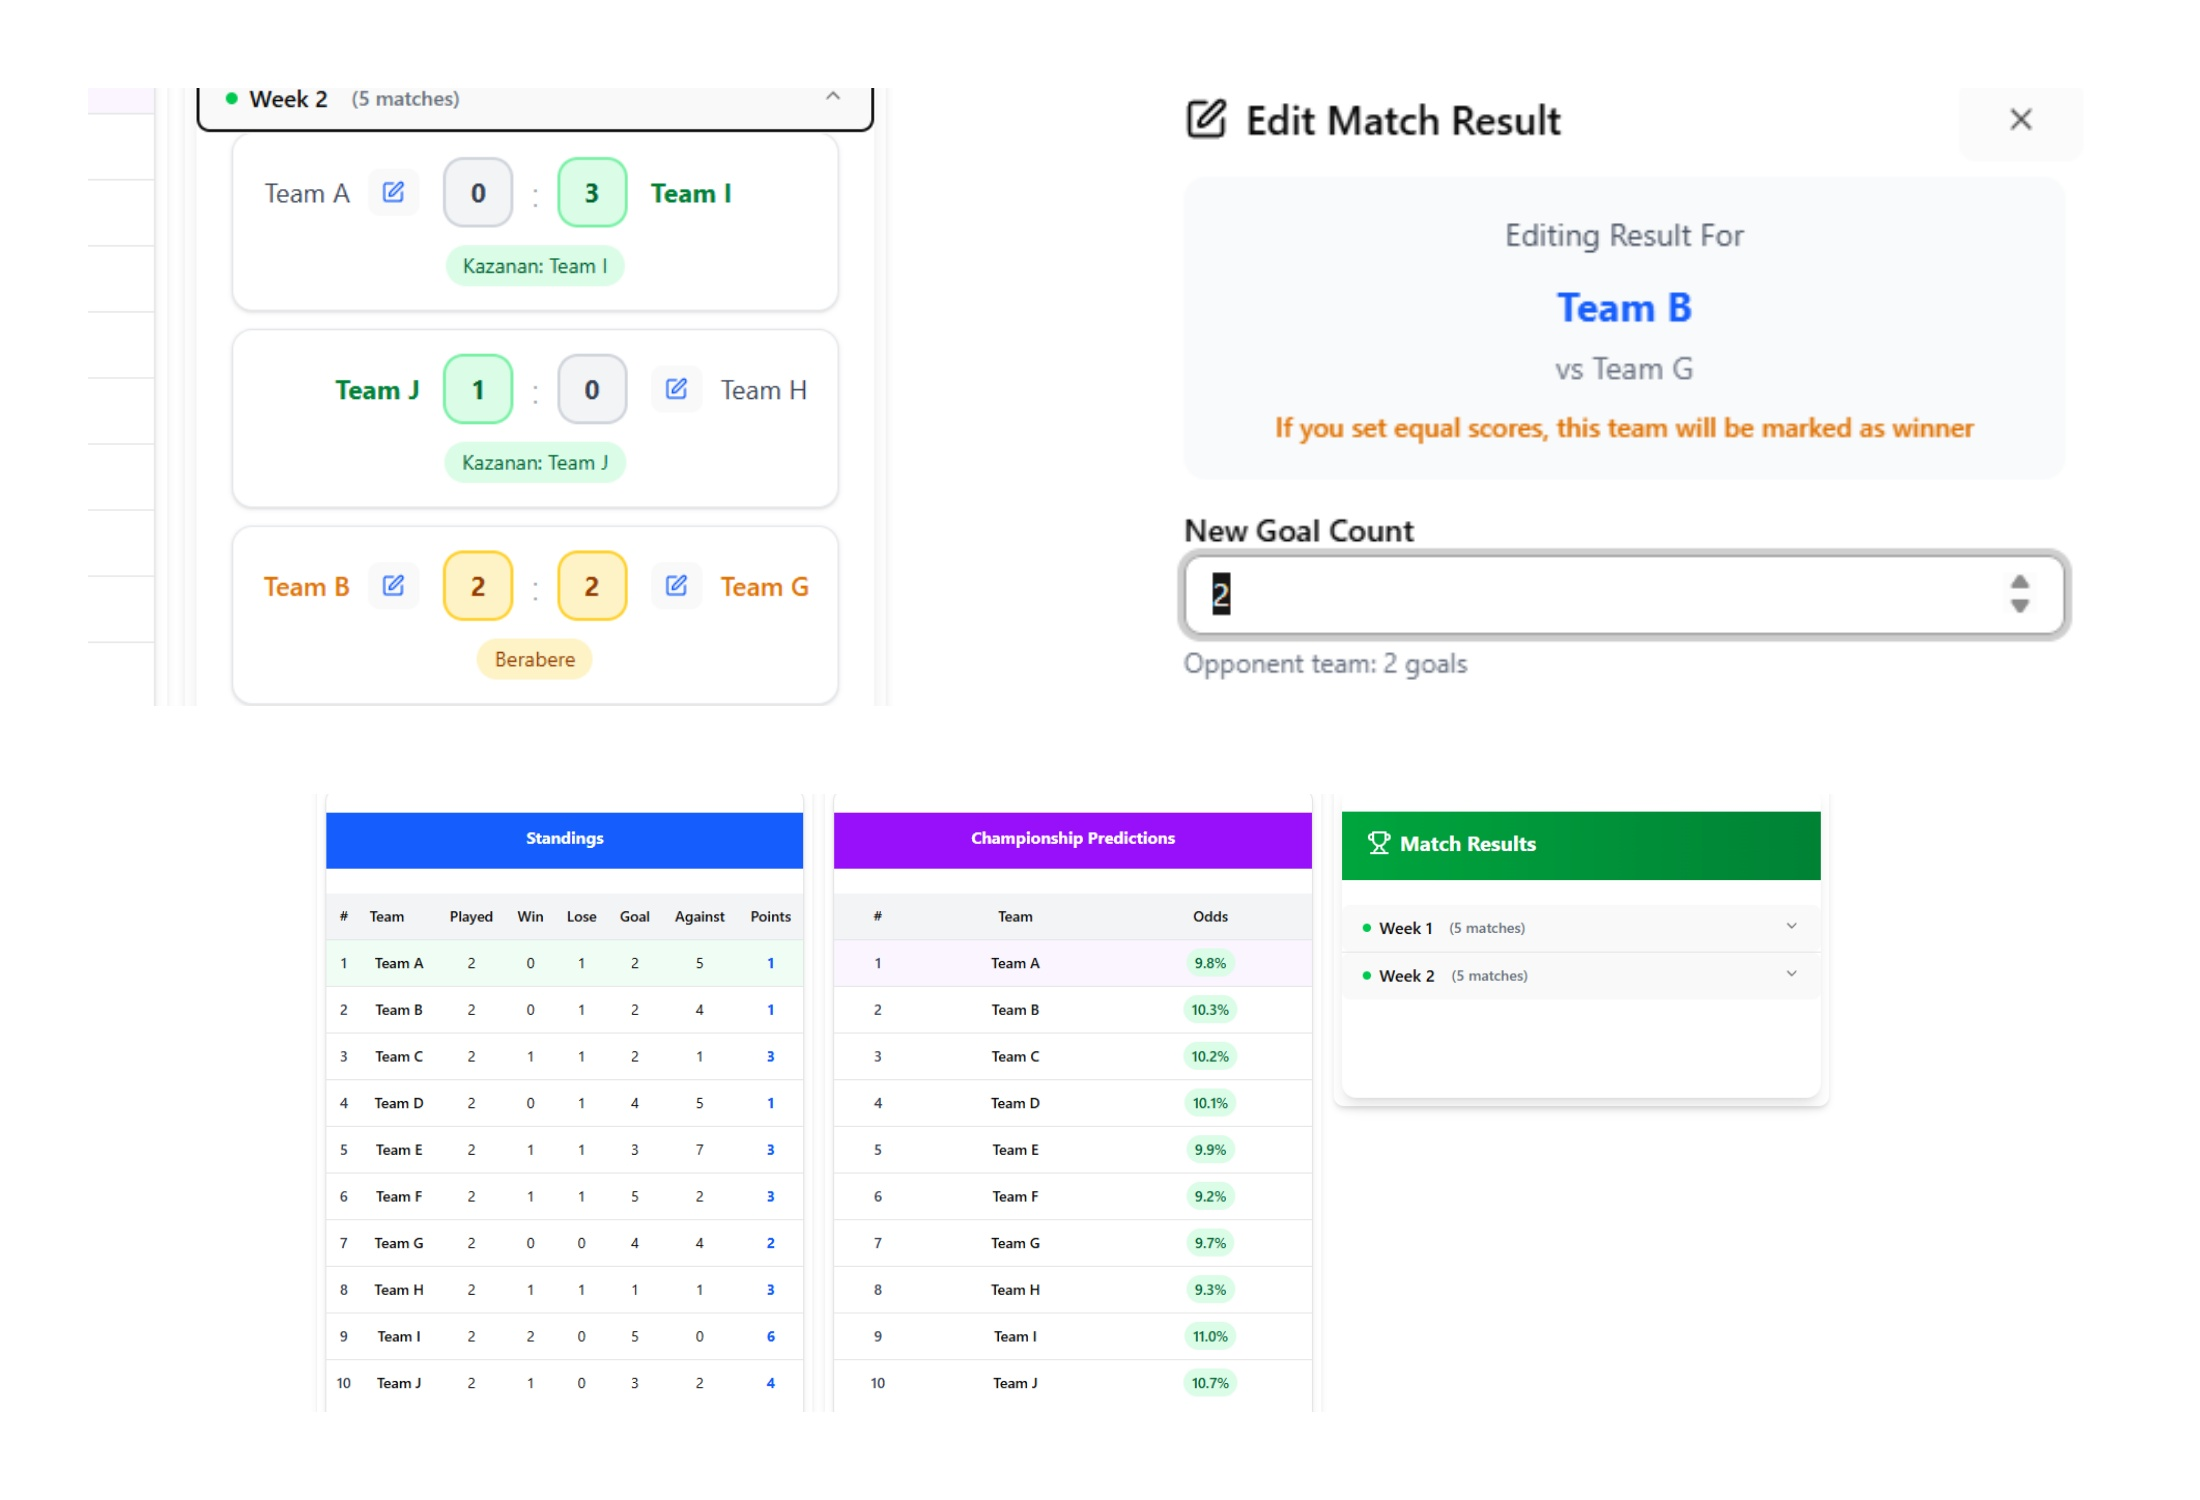
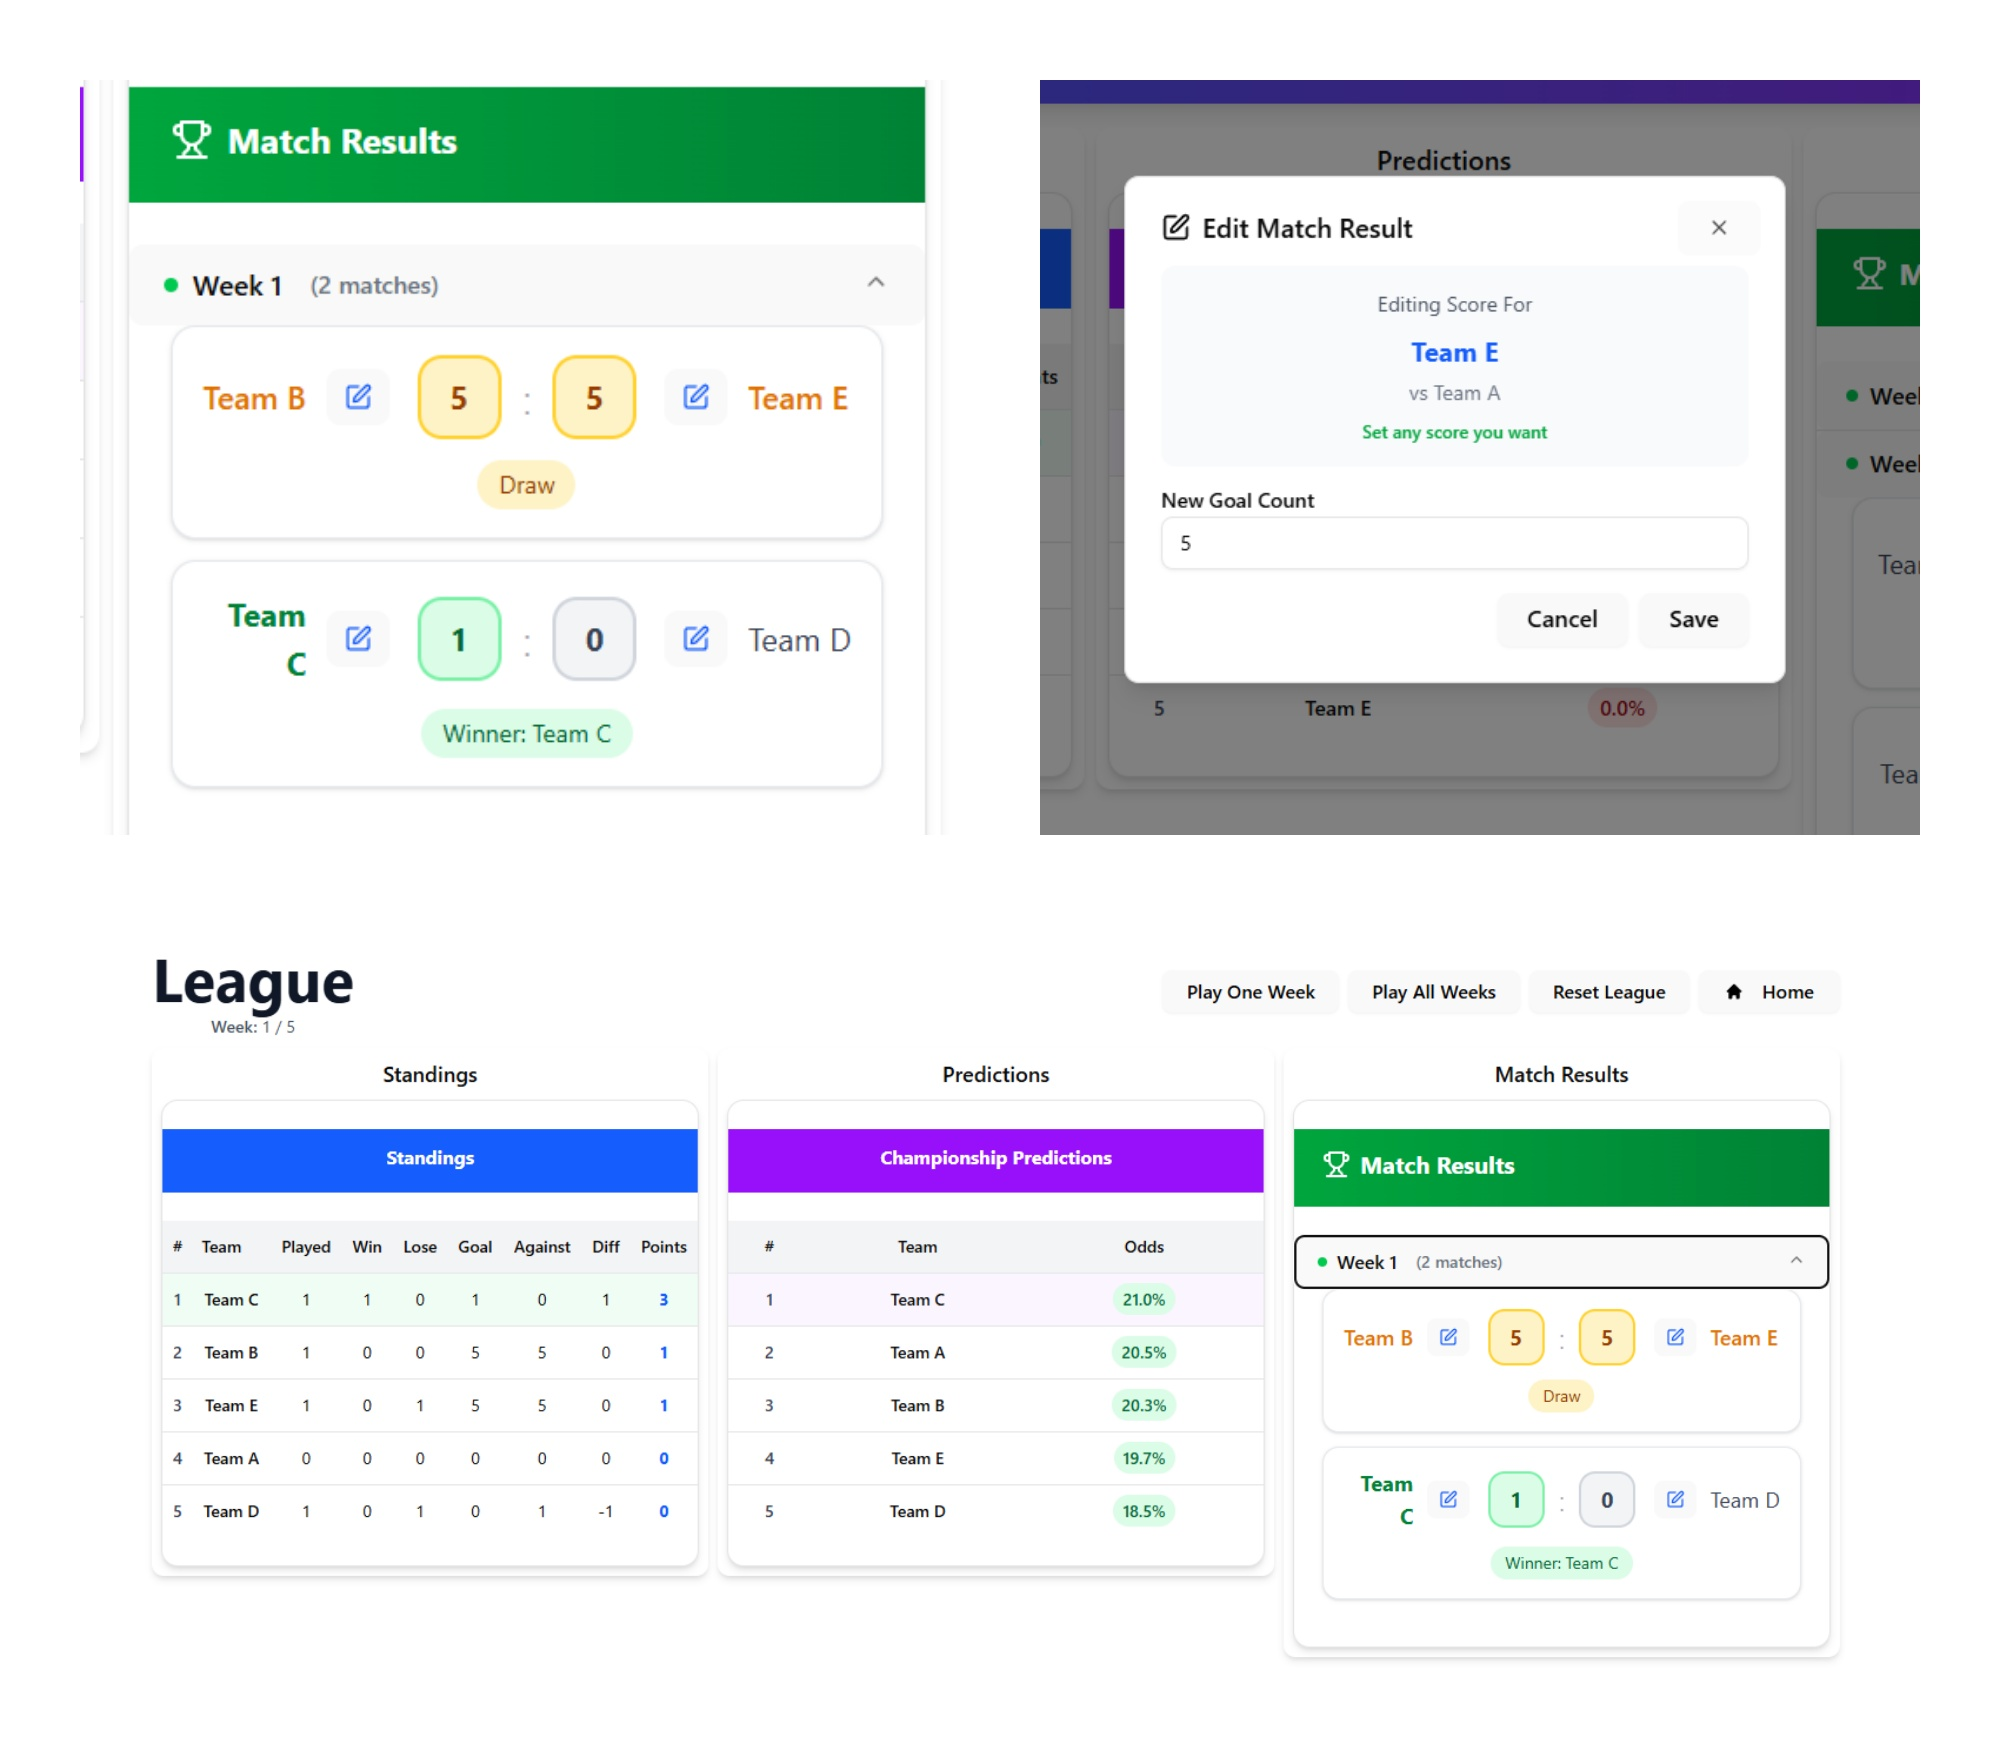
change images in readme file

diff --git a/frontend/src/components/league/MatchResults.tsx b/frontend/src/components/league/MatchResults.tsx
@@ -288,7 +288,7 @@ export const MatchResults = ({ matches, leagueId, onMatchUpdate }: MatchResultsP
                     <Button
                         onClick={handleSaveEdit}
                         disabled={updating || !newGoals}
-                        className="bg-green-600 hover:bg-green-700"
+                        className="bg-green-600 hover:bg-green-700 text-black"
                     >
                         {updating ? 'Saving...' : 'Save'}
                     </Button>
